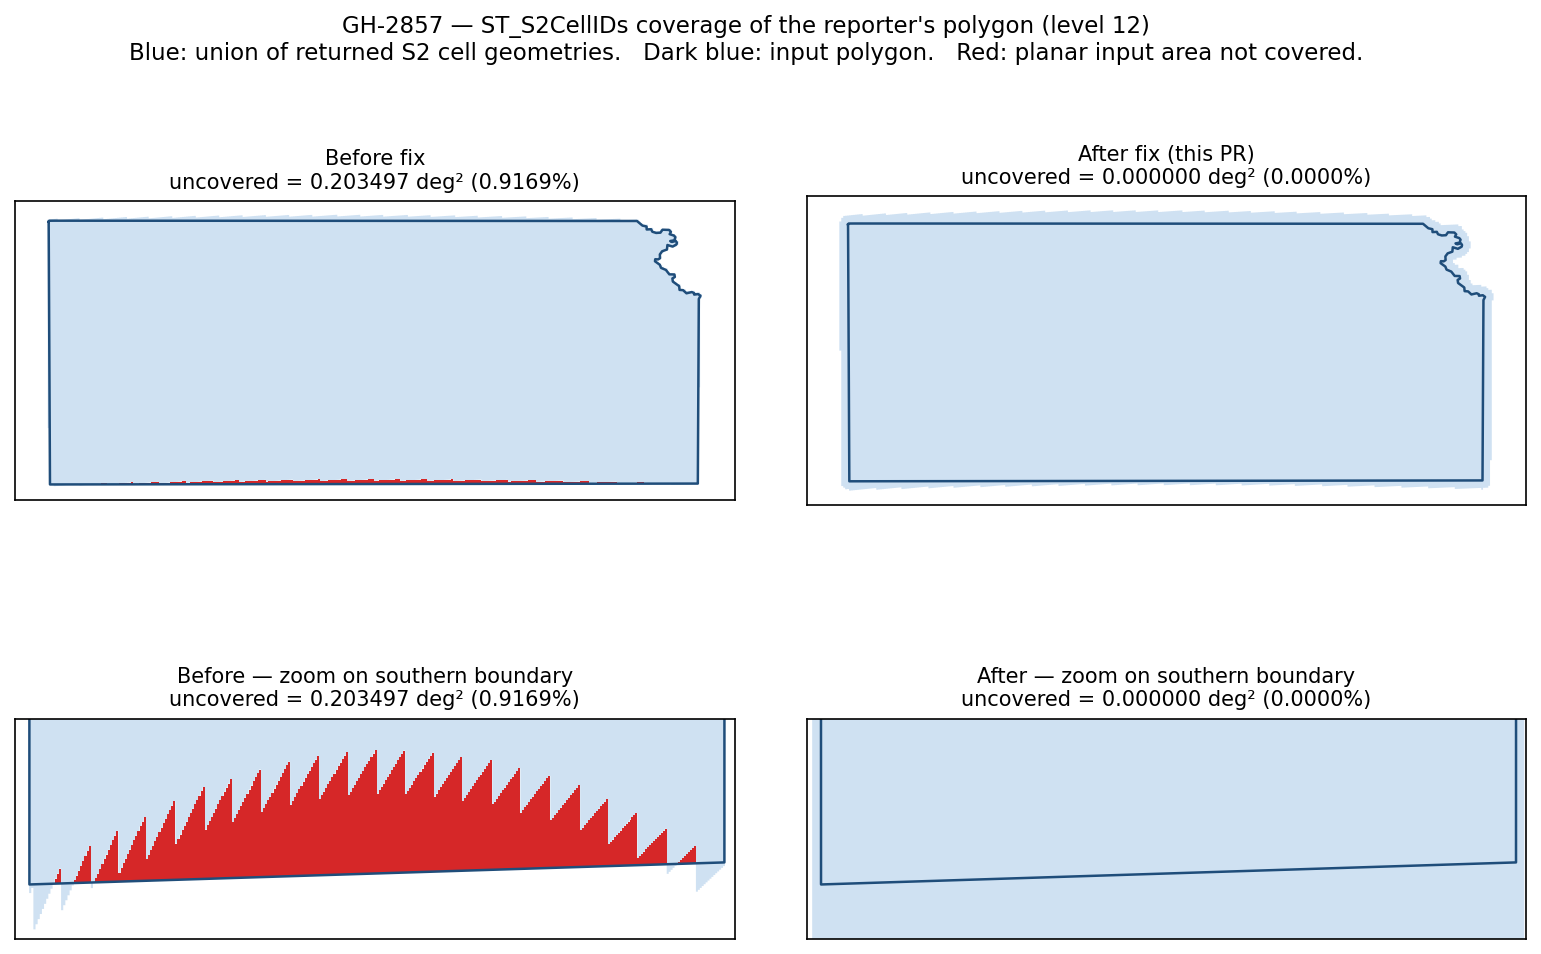
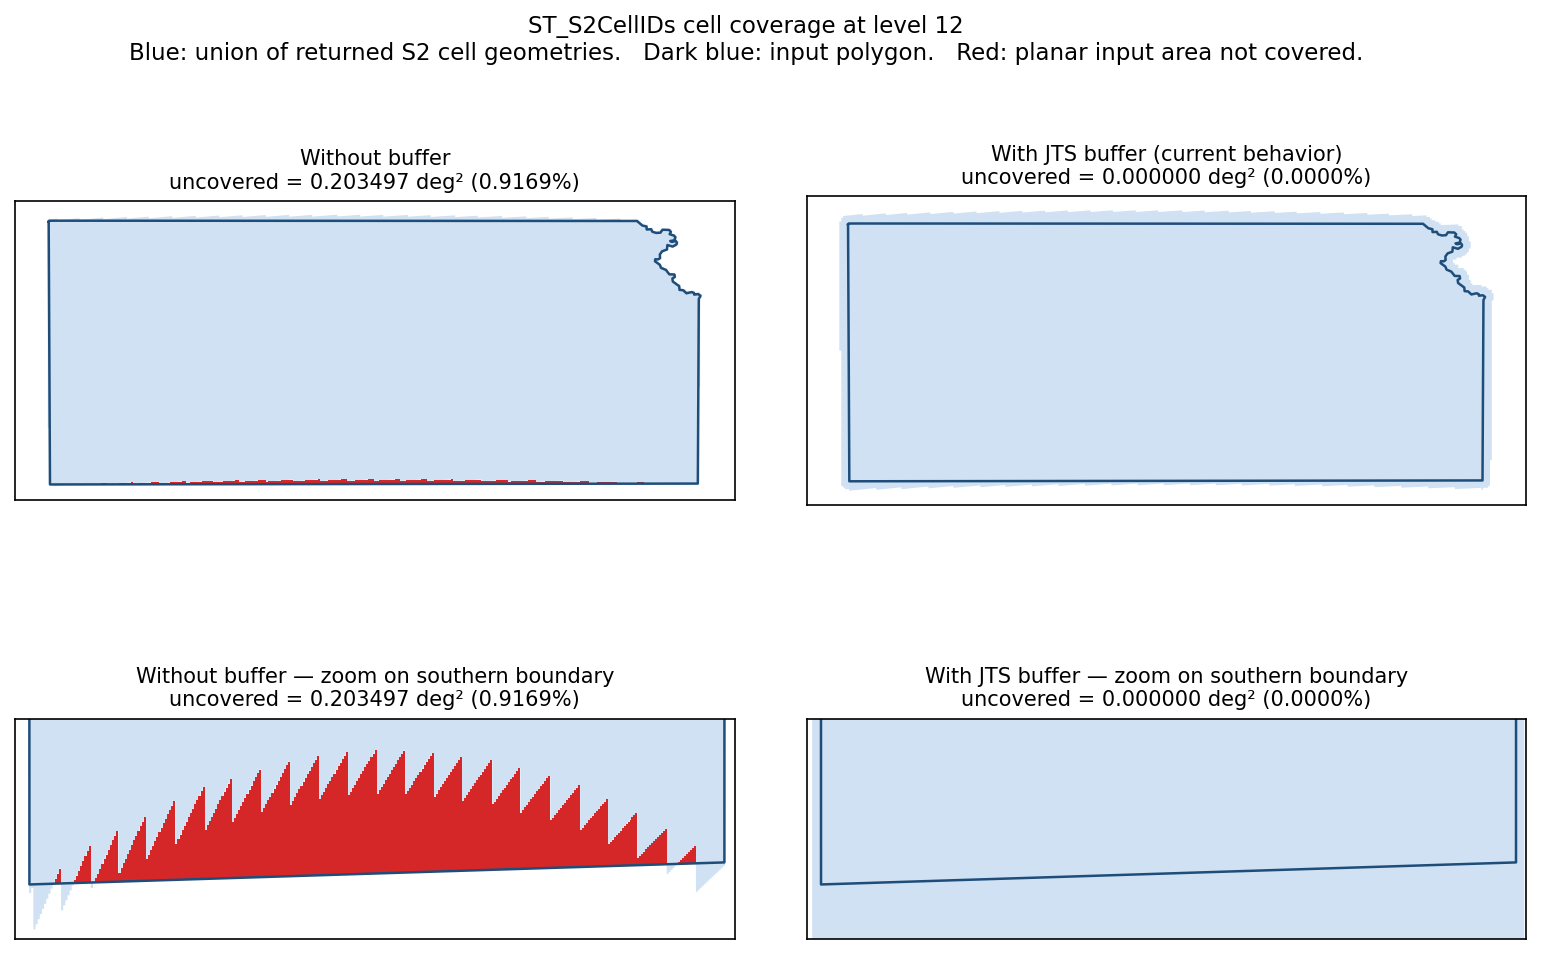
[GH-2857] Make empirical PNG and doc captions PR-neutral
Re-render the before/after PNG with panel titles "Without buffer" /
"With JTS buffer (current behavior)" instead of "Before fix" /
"After fix (this PR)", and rephrase the surrounding doc captions to
match. Image and text are now ongoing function documentation, not
PR-specific artifacts.

diff --git a/docs/api/snowflake/vector-data/Spatial-Indexing/ST_S2CellIDs.md b/docs/api/snowflake/vector-data/Spatial-Indexing/ST_S2CellIDs.md
@@ -50,13 +50,12 @@ Return type: `Array<Long>`
 
     ![Planar polygon vs S2's great-circle interpretation](../../../../image/ST_S2CellIDs/planar_vs_spherical_edge.svg)
 
-    The plot below shows the empirical effect on a real polygon at level 12: blue is the
+    The plot below shows the empirical effect on a real polygon at level 12. Blue is the
     union of returned cell geometries, dark blue is the input outline, red is planar input
-    area not covered. Without the buffer, slivers concentrate along long non-meridional
-    edges; with the buffer, the cells extend slightly outside the polygon and coverage is
-    complete.
+    area not covered. With the buffer, the cells extend slightly outside the polygon and
+    coverage is complete; without it, slivers concentrate along long non-meridional edges.
 
-    ![Cell coverage of a real polygon, with and without the buffer](../../../../image/ST_S2CellIDs/coverage_before_after.png)
+    ![ST_S2CellIDs cell coverage at level 12, with and without the JTS buffer](../../../../image/ST_S2CellIDs/coverage_before_after.png)
 
 SQL example:
 

diff --git a/docs/api/sql/Spatial-Indexing/ST_S2CellIDs.md b/docs/api/sql/Spatial-Indexing/ST_S2CellIDs.md
@@ -52,13 +52,12 @@ Since: `v1.4.0`
 
     ![Planar polygon vs S2's great-circle interpretation](../../../image/ST_S2CellIDs/planar_vs_spherical_edge.svg)
 
-    The plot below shows the empirical effect on a real polygon at level 12: blue is the
+    The plot below shows the empirical effect on a real polygon at level 12. Blue is the
     union of returned cell geometries, dark blue is the input outline, red is planar input
-    area not covered. Without the buffer, slivers concentrate along long non-meridional
-    edges; with the buffer, the cells extend slightly outside the polygon and coverage is
-    complete.
+    area not covered. With the buffer, the cells extend slightly outside the polygon and
+    coverage is complete; without it, slivers concentrate along long non-meridional edges.
 
-    ![Cell coverage of a real polygon, with and without the buffer](../../../image/ST_S2CellIDs/coverage_before_after.png)
+    ![ST_S2CellIDs cell coverage at level 12, with and without the JTS buffer](../../../image/ST_S2CellIDs/coverage_before_after.png)
 
 SQL Example
 

diff --git a/docs/api/flink/Spatial-Indexing/ST_S2CellIDs.md b/docs/api/flink/Spatial-Indexing/ST_S2CellIDs.md
@@ -52,13 +52,12 @@ Since: `v1.4.0`
 
     ![Planar polygon vs S2's great-circle interpretation](../../../image/ST_S2CellIDs/planar_vs_spherical_edge.svg)
 
-    The plot below shows the empirical effect on a real polygon at level 12: blue is the
+    The plot below shows the empirical effect on a real polygon at level 12. Blue is the
     union of returned cell geometries, dark blue is the input outline, red is planar input
-    area not covered. Without the buffer, slivers concentrate along long non-meridional
-    edges; with the buffer, the cells extend slightly outside the polygon and coverage is
-    complete.
+    area not covered. With the buffer, the cells extend slightly outside the polygon and
+    coverage is complete; without it, slivers concentrate along long non-meridional edges.
 
-    ![Cell coverage of a real polygon, with and without the buffer](../../../image/ST_S2CellIDs/coverage_before_after.png)
+    ![ST_S2CellIDs cell coverage at level 12, with and without the JTS buffer](../../../image/ST_S2CellIDs/coverage_before_after.png)
 
 Example:
 
